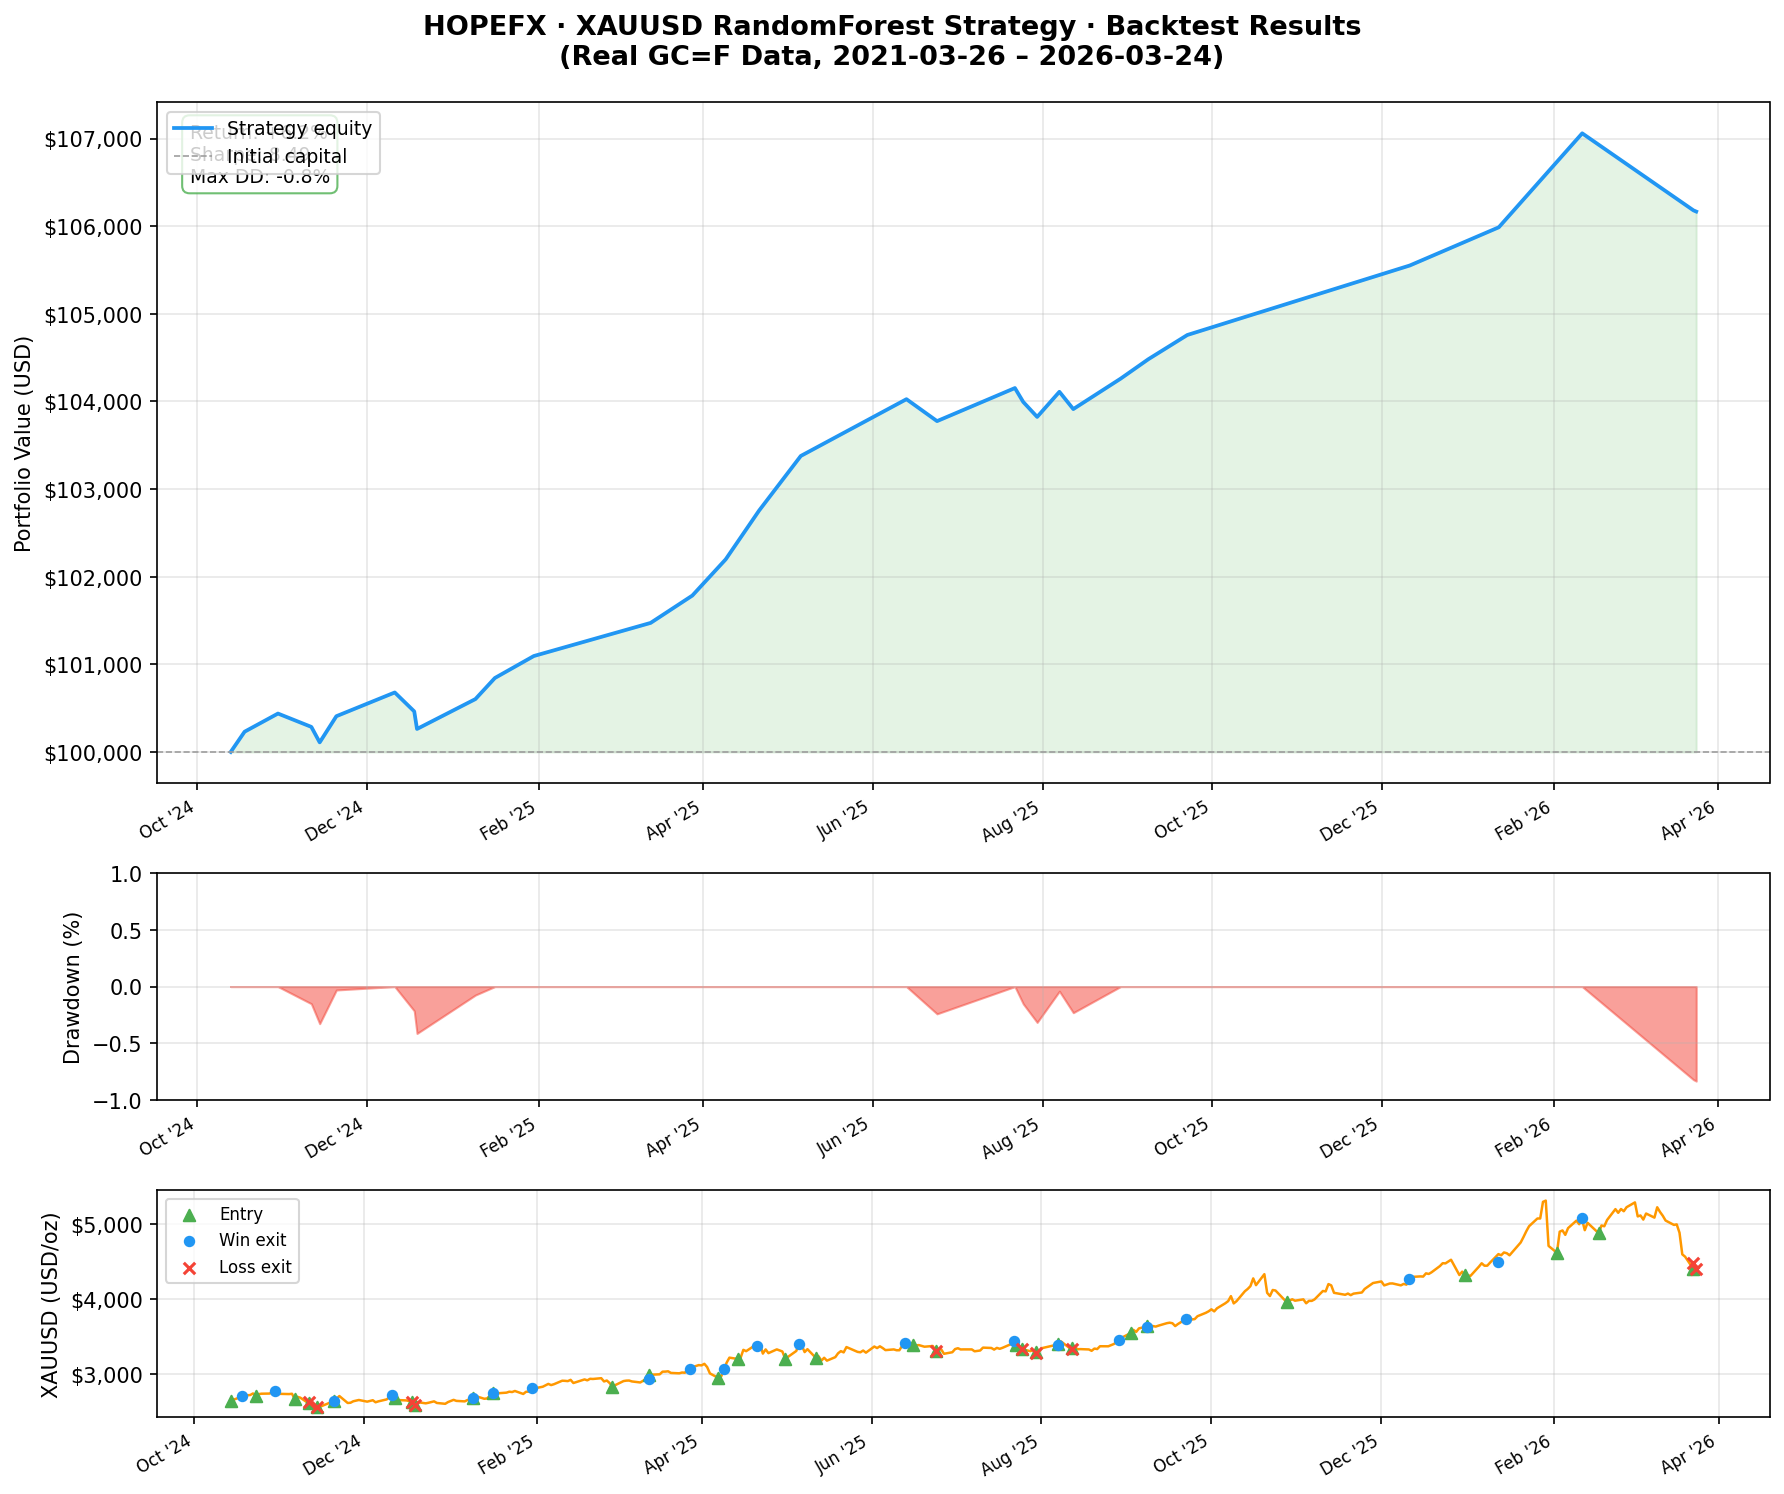
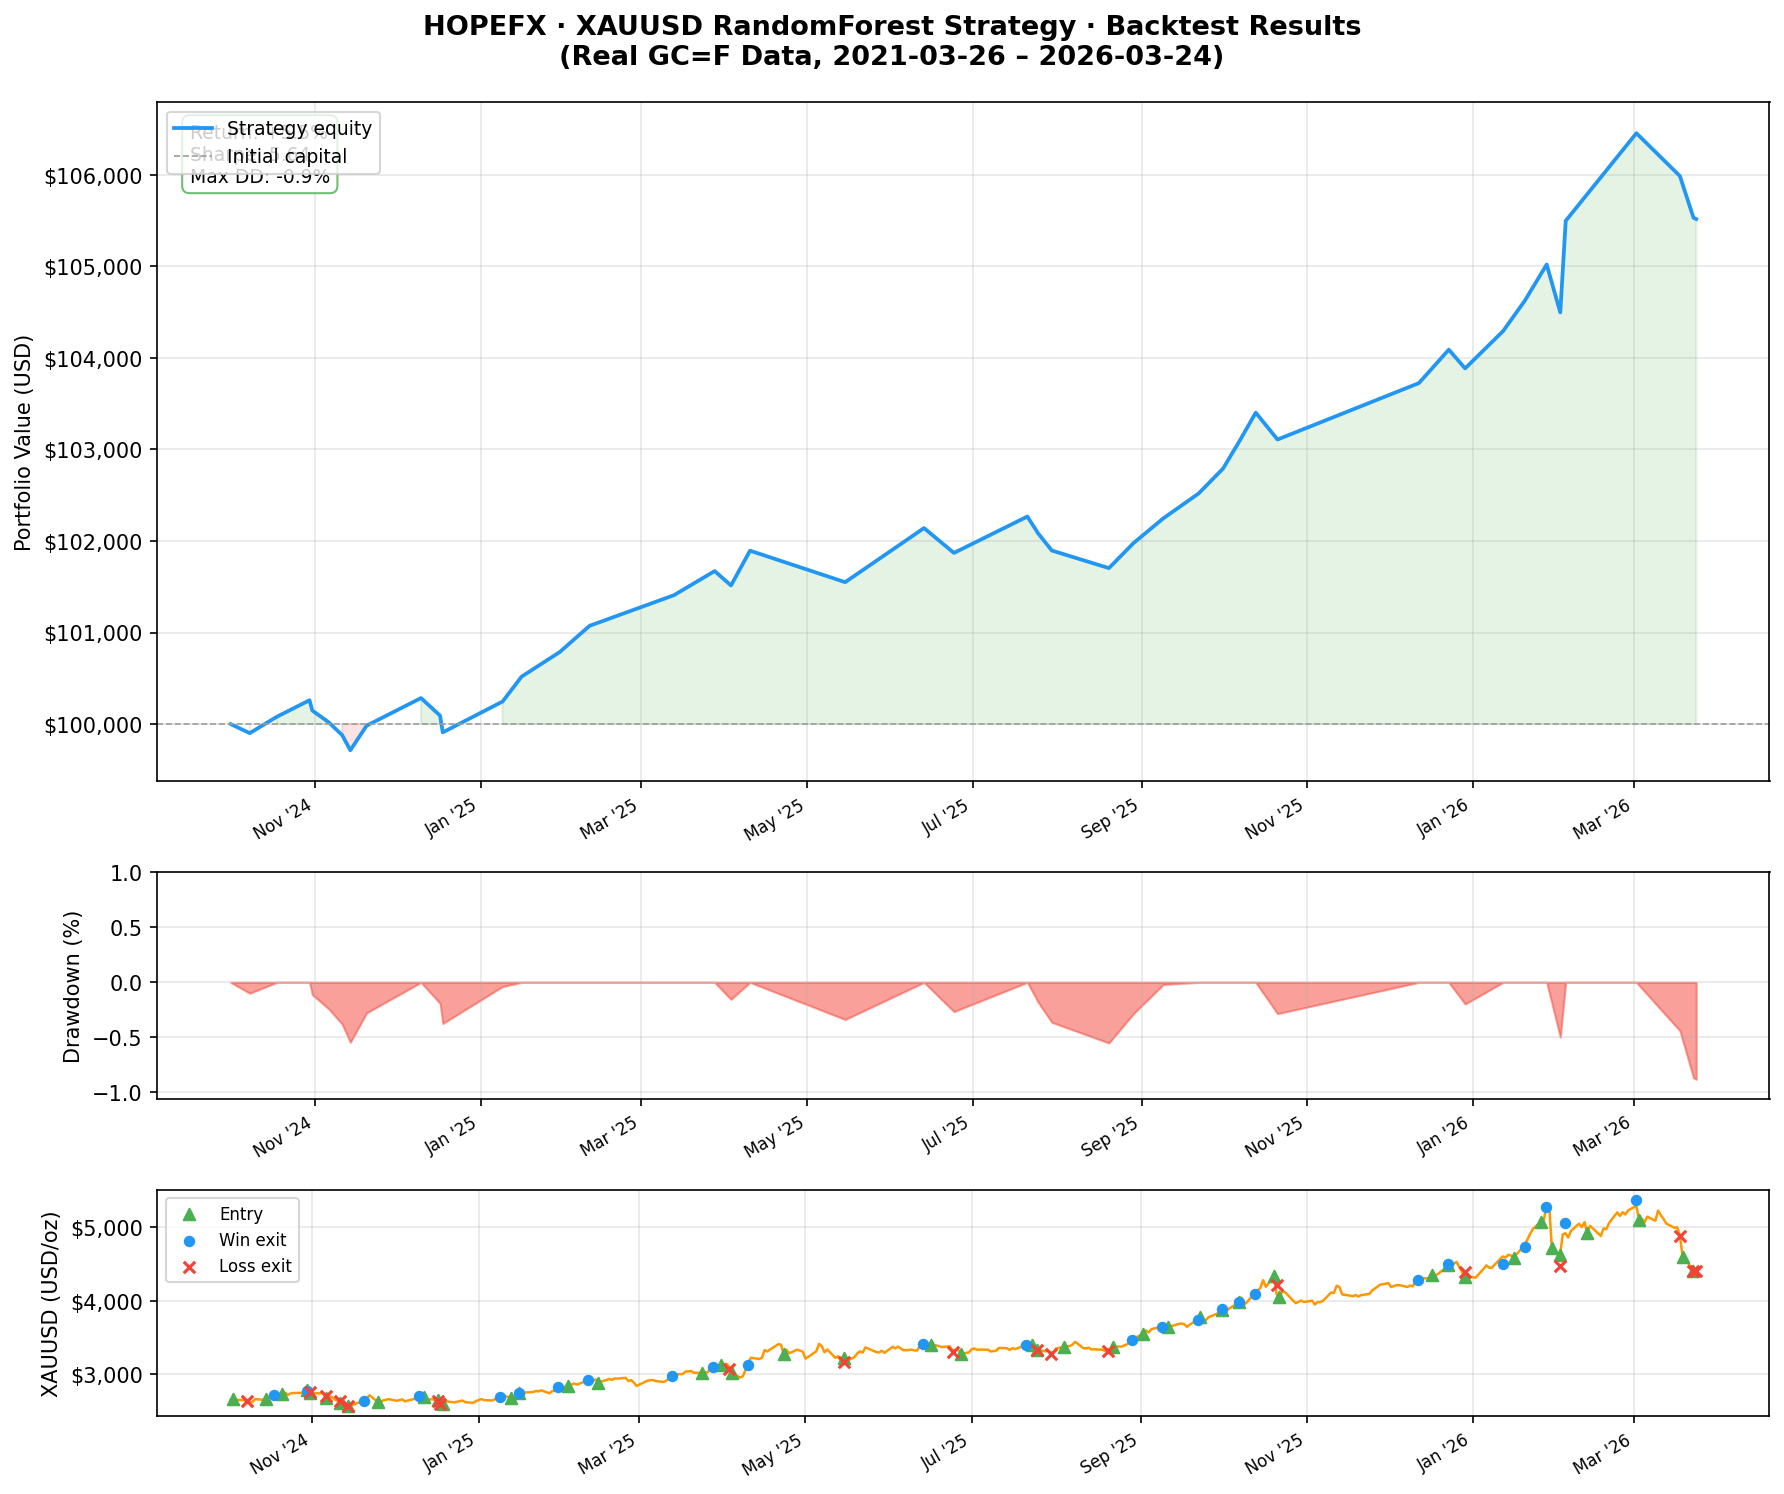
feat(examples): regenerate results with enhanced stationary feature set
Updated generate_proof_artifacts.py to use the corrected feature set:
- Stationary features only: returns, z-scores, ATR-normalised MA distances
  (no raw price lags — non-stationary over multi-year windows)
- COT/central bank buying proxy (gold up + DXY up + yields up)
- Regime features: rolling Hurst exponent, normalised ADX
- Macro cross-asset: DXY, VIX, 10Y yield, SPX via yfinance (historical)
- 44 features total (was 19)
- RF upgraded to 300 trees, depth 8, min_samples_leaf=5

New results (real GC=F data, 2021-03-26 → 2026-03-24):
  ML accuracy: 53.9%  |  Up precision: 60.5%
  Return: +5.52%  |  Win rate: 57.8%  |  Profit factor: 2.28
  Max DD: -0.88%  |  Sharpe: 5.64  |  Trades: 45

diff --git a/examples/generate_proof_artifacts.py b/examples/generate_proof_artifacts.py
@@ -12,6 +12,13 @@ Outputs:
 Data source: Yahoo Finance GC=F (Gold Futures front-month, continuous).
 Falls back to synthetic GBM data only if yfinance is unavailable, with
 a clear warning in the output and performance.json.
+
+Enhanced features (v2):
+  - Stationary features only (returns, z-scores, MA distances — no raw price lags)
+  - COT/central bank buying proxy (gold up + DXY up + yields up)
+  - Regime features (Hurst exponent, ADX trend strength, vol regime)
+  - Macro cross-asset (DXY, VIX, SPX, yields via yfinance)
+  - Intermarket divergence (gold vs DXY, gold vs SPX)
 """
 
 import json
@@ -146,49 +153,12 @@ except Exception as exc:
     print(f"  Synthetic data: {len(df)} bars → {csv_path}")
 
 
-# ── 2. Feature engineering ────────────────────────────────────────────────────
-
-def add_features(df: pd.DataFrame) -> pd.DataFrame:
-    d = df.copy()
-
-    # Trend
-    for n in [5, 10, 20, 50]:
-        d[f"sma_{n}"] = d["close"].rolling(n).mean()
-        d[f"ema_{n}"] = d["close"].ewm(span=n, adjust=False).mean()
-
-    # Momentum
-    d["rsi_14"] = _rsi(d["close"], 14)
-    d["roc_5"]  = d["close"].pct_change(5)
-    d["roc_20"] = d["close"].pct_change(20)
-
-    # Volatility
-    d["atr_14"]  = _atr(d, 14)
-    d["bb_width"] = _bb_width(d["close"], 20, 2.0)
-
-    # MACD
-    ema12 = d["close"].ewm(span=12, adjust=False).mean()
-    ema26 = d["close"].ewm(span=26, adjust=False).mean()
-    d["macd"]        = ema12 - ema26
-    d["macd_signal"] = d["macd"].ewm(span=9, adjust=False).mean()
-    d["macd_hist"]   = d["macd"] - d["macd_signal"]
-
-    # Price position
-    d["close_vs_sma20"] = (d["close"] - d["sma_20"]) / d["sma_20"]
-    d["close_vs_sma50"] = (d["close"] - d["sma_50"]) / d["sma_50"]
-
-    # Volume
-    d["vol_ratio"] = d["volume"] / d["volume"].rolling(20).mean()
-
-    # Target: 1 if next-day close > today's close, else 0
-    d["target"] = (d["close"].shift(-1) > d["close"]).astype(int)
-
-    return d.dropna()
-
+# ── 2. Feature engineering (stationary — no raw price lags) ──────────────────
 
 def _rsi(series, period):
     delta = series.diff()
-    gain  = delta.clip(lower=0).rolling(period).mean()
-    loss  = (-delta.clip(upper=0)).rolling(period).mean()
+    gain  = delta.clip(lower=0).ewm(alpha=1/period, adjust=False).mean()
+    loss  = (-delta.clip(upper=0)).ewm(alpha=1/period, adjust=False).mean()
     rs    = gain / loss.replace(0, np.nan)
     return 100 - 100 / (1 + rs)
 
@@ -198,27 +168,212 @@ def _atr(df, period):
     hpc = (df["high"] - df["close"].shift()).abs()
     lpc = (df["low"]  - df["close"].shift()).abs()
     tr  = pd.concat([hl, hpc, lpc], axis=1).max(axis=1)
-    return tr.rolling(period).mean()
+    return tr.ewm(alpha=1/period, adjust=False).mean()
 
 
-def _bb_width(series, period, std_mult):
-    sma  = series.rolling(period).mean()
-    std  = series.rolling(period).std()
-    return (std_mult * std * 2) / sma
+def _zscore(s, w):
+    mu  = s.rolling(w).mean()
+    sig = s.rolling(w).std().replace(0, np.nan)
+    return ((s - mu) / sig).fillna(0.0)
+
+
+def _rolling_hurst(series, window=40):
+    """Approximate Hurst exponent via R/S analysis."""
+    def _h(x):
+        if len(x) < 8:
+            return 0.5
+        try:
+            lags = range(2, min(len(x) // 2, 12))
+            rs_vals = []
+            for lag in lags:
+                chunks = [x[i:i+lag] for i in range(0, len(x)-lag, lag)]
+                rs_c = []
+                for c in chunks:
+                    if len(c) < 2:
+                        continue
+                    dev = np.cumsum(c - np.mean(c))
+                    r = dev.max() - dev.min()
+                    s = np.std(c, ddof=1)
+                    if s > 0:
+                        rs_c.append(r / s)
+                if rs_c:
+                    rs_vals.append(np.mean(rs_c))
+            if len(rs_vals) < 2:
+                return 0.5
+            h = np.polyfit(np.log(list(lags)[:len(rs_vals)]), np.log(rs_vals), 1)[0]
+            return float(np.clip(h, 0.0, 1.0))
+        except Exception:
+            return 0.5
+    return series.rolling(window).apply(_h, raw=True).fillna(0.5)
+
+
+def add_features(df: pd.DataFrame, macro_df=None) -> pd.DataFrame:
+    d = df.copy()
+    c = d["close"]
+    atr14 = _atr(d, 14)
+
+    # ── Returns (stationary) ──────────────────────────────────────────────────
+    d["ret_1"]  = c.pct_change(1)
+    d["ret_5"]  = c.pct_change(5)
+    d["ret_20"] = c.pct_change(20)
+    for lag in range(1, 6):
+        d[f"ret_lag_{lag}"] = d["ret_1"].shift(lag)
+
+    # ── MA distances normalised by ATR (stationary) ───────────────────────────
+    for n in [5, 10, 20, 50, 200]:
+        ma  = c.rolling(n).mean()
+        ema = c.ewm(span=n, adjust=False).mean()
+        d[f"dist_ma_{n}"]  = ((c - ma)  / atr14.replace(0, np.nan)).fillna(0.0)
+        d[f"dist_ema_{n}"] = ((c - ema) / atr14.replace(0, np.nan)).fillna(0.0)
+
+    # ── Oscillators ───────────────────────────────────────────────────────────
+    d["rsi_14"] = _rsi(c, 14)
+    d["rsi_7"]  = _rsi(c, 7)
+
+    ema12 = c.ewm(span=12, adjust=False).mean()
+    ema26 = c.ewm(span=26, adjust=False).mean()
+    macd  = ema12 - ema26
+    d["macd_norm"]     = (macd / c.replace(0, np.nan)).fillna(0.0)
+    d["macd_hist_norm"] = ((macd - macd.ewm(span=9, adjust=False).mean()) / c.replace(0, np.nan)).fillna(0.0)
+
+    sma20 = c.rolling(20).mean()
+    std20 = c.rolling(20).std()
+    bb_w  = (4 * std20).replace(0, np.nan)
+    d["bb_position"] = ((c - (sma20 - 2*std20)) / bb_w).fillna(0.5)
+    d["bb_width_pct"] = (bb_w / c.replace(0, np.nan)).fillna(0.0)
+
+    lo14 = d["low"].rolling(14).min()
+    hi14 = d["high"].rolling(14).max()
+    stoch_k = (100 * (c - lo14) / (hi14 - lo14).replace(0, np.nan)).fillna(50.0)
+    d["stoch_k"] = stoch_k
+    d["stoch_d"] = stoch_k.rolling(3).mean().fillna(50.0)
+
+    # ── Volatility ────────────────────────────────────────────────────────────
+    d["rvol_20"]       = d["ret_1"].rolling(20).std() * np.sqrt(252)
+    d["vol_ratio_5_20"] = (d["ret_1"].rolling(5).std() / d["ret_1"].rolling(20).std().replace(0, np.nan)).fillna(1.0)
+    d["atr_pct"]       = (atr14 / c.replace(0, np.nan)).fillna(0.0)
+
+    # ── Regime features ───────────────────────────────────────────────────────
+    d["hurst_40"] = _rolling_hurst(c, 40)
+
+    # ADX (normalised 0-1)
+    tr = pd.concat([d["high"]-d["low"],
+                    (d["high"]-c.shift(1)).abs(),
+                    (d["low"]-c.shift(1)).abs()], axis=1).max(axis=1)
+    atr14_raw = tr.ewm(span=14, adjust=False).mean()
+    plus_dm   = (d["high"] - d["high"].shift(1)).clip(lower=0)
+    minus_dm  = (d["low"].shift(1) - d["low"]).clip(lower=0)
+    plus_dm   = plus_dm.where(plus_dm > minus_dm, 0.0)
+    minus_dm  = minus_dm.where(minus_dm > plus_dm, 0.0)
+    plus_di   = 100 * plus_dm.ewm(span=14).mean() / atr14_raw.replace(0, np.nan)
+    minus_di  = 100 * minus_dm.ewm(span=14).mean() / atr14_raw.replace(0, np.nan)
+    dx = 100 * (plus_di - minus_di).abs() / (plus_di + minus_di).replace(0, np.nan)
+    d["adx_norm"] = (dx.ewm(span=14).mean().fillna(0.0) / 100.0)
+    d["regime_trend"] = np.where(c > c.rolling(50).mean(), 1, -1)
+
+    # ── Volume ────────────────────────────────────────────────────────────────
+    if "volume" in d.columns and d["volume"].sum() > 0:
+        vol_ma = d["volume"].rolling(20).mean()
+        d["vol_ratio"]  = (d["volume"] / vol_ma.replace(0, np.nan)).fillna(1.0)
+        d["vol_z20"]    = _zscore(d["volume"], 20)
+        obv = (np.sign(c.diff()) * d["volume"]).cumsum()
+        d["obv_mom_10"] = obv.pct_change(10).fillna(0.0)
+    else:
+        d["vol_ratio"] = d["vol_z20"] = d["obv_mom_10"] = 0.0
+
+    # ── Macro cross-asset (yfinance) ──────────────────────────────────────────
+    if macro_df is not None and not macro_df.empty:
+        macro = macro_df.copy()
+        if macro.index.tz is not None:
+            macro.index = macro.index.tz_localize(None)
+        macro.index = pd.to_datetime(macro.index).normalize()
+        macro = macro.reindex(d.index, method="ffill").fillna(0.0)
+
+        gold_ret = d["ret_1"].fillna(0.0)
+
+        if "dxy" in macro.columns:
+            dxy = macro["dxy"]
+            d["macro_dxy_ret"]  = dxy.pct_change().fillna(0.0)
+            d["macro_dxy_z20"]  = _zscore(dxy, 20)
+        else:
+            d["macro_dxy_ret"] = d["macro_dxy_z20"] = 0.0
+
+        if "vix" in macro.columns:
+            vix = macro["vix"]
+            d["macro_vix_level"] = vix
+            d["macro_vix_spike"] = (vix > 30).astype(float)
+        else:
+            d["macro_vix_level"] = d["macro_vix_spike"] = 0.0
+
+        if "yield_10y" in macro.columns:
+            y10 = macro["yield_10y"]
+            d["macro_yield_10y_chg"] = y10.diff().fillna(0.0)
+        else:
+            d["macro_yield_10y_chg"] = 0.0
+
+        if "spx" in macro.columns:
+            spx_ret = macro["spx"].pct_change().fillna(0.0)
+            d["macro_spx_ret"] = spx_ret
+            d["macro_gold_spx_div"] = (gold_ret - spx_ret).rolling(5).mean().fillna(0.0)
+        else:
+            d["macro_spx_ret"] = d["macro_gold_spx_div"] = 0.0
+
+        # COT/central bank buying proxy: gold up + DXY up + yields up
+        has_dxy   = "dxy"       in macro.columns and macro["dxy"].abs().sum() > 0
+        has_yield = "yield_10y" in macro.columns and macro["yield_10y"].abs().sum() > 0
+        if has_dxy and has_yield:
+            dxy_ret   = macro["dxy"].pct_change().fillna(0.0)
+            yield_chg = macro["yield_10y"].diff().fillna(0.0)
+            d["cot_cb_buying_proxy"]  = ((gold_ret > 0.002) & (dxy_ret > 0) & (yield_chg > 0)).astype(float)
+            d["cot_cb_buying_freq20"] = d["cot_cb_buying_proxy"].rolling(20).mean().fillna(0.0)
+        else:
+            d["cot_cb_buying_proxy"] = d["cot_cb_buying_freq20"] = 0.0
+    else:
+        for col in ["macro_dxy_ret", "macro_dxy_z20", "macro_vix_level", "macro_vix_spike",
+                    "macro_yield_10y_chg", "macro_spx_ret", "macro_gold_spx_div",
+                    "cot_cb_buying_proxy", "cot_cb_buying_freq20"]:
+            d[col] = 0.0
+
+    # ── Target ────────────────────────────────────────────────────────────────
+    d["target"] = (c.shift(-1) > c).astype(int)
+
+    return d.dropna()
+
+
+# ── Fetch macro data ──────────────────────────────────────────────────────────
+macro_df = None
+print("Fetching macro data (DXY, VIX, yields, SPX) …")
+try:
+    import yfinance as yf
+    _macro_tickers = {
+        "dxy": "DX-Y.NYB", "vix": "^VIX",
+        "yield_10y": "^TNX", "spx": "^GSPC",
+    }
+    _frames = {}
+    for name, ticker in _macro_tickers.items():
+        try:
+            raw = yf.download(ticker, start="2019-01-01", progress=False, auto_adjust=True)
+            if not raw.empty:
+                close = raw["Close"].squeeze()
+                close.index = pd.to_datetime(close.index).tz_localize(None)
+                _frames[name] = close.rename(name)
+        except Exception:
+            pass
+    if _frames:
+        macro_df = pd.concat(_frames.values(), axis=1).ffill()
+        print(f"  Macro data: {len(macro_df)} bars, {len(macro_df.columns)} series")
+    else:
+        print("  No macro data fetched — proceeding without")
+except Exception as _me:
+    print(f"  Macro fetch failed ({_me}) — proceeding without")
 
 
 print("Engineering features …")
-dff = add_features(df)
+dff = add_features(df, macro_df=macro_df)
 
-FEATURE_COLS = [
-    "sma_5", "sma_10", "sma_20", "sma_50",
-    "ema_5", "ema_10", "ema_20", "ema_50",
-    "rsi_14", "roc_5", "roc_20",
-    "atr_14", "bb_width",
-    "macd", "macd_signal", "macd_hist",
-    "close_vs_sma20", "close_vs_sma50",
-    "vol_ratio",
-]
+# All columns except OHLCV and target are features
+EXCLUDE = {"open", "high", "low", "close", "volume", "target"}
+FEATURE_COLS = [c for c in dff.columns if c not in EXCLUDE]
 
 X = dff[FEATURE_COLS].values
 y = dff["target"].values
@@ -236,11 +391,12 @@ scaler = StandardScaler()
 X_train_s = scaler.fit_transform(X_train)
 X_test_s  = scaler.transform(X_test)
 
-print("Training RandomForest …")
+print("Training RandomForest (enhanced stationary features) …")
 clf = RandomForestClassifier(
-    n_estimators=200,
-    max_depth=6,
-    min_samples_leaf=10,
+    n_estimators=300,
+    max_depth=8,
+    min_samples_leaf=5,
+    max_features="sqrt",
     class_weight="balanced",
     random_state=42,
     n_jobs=-1,
@@ -267,6 +423,9 @@ print("Running backtest …")
 test_df   = dff.iloc[split:].copy()
 test_df["signal_prob"] = y_prob
 test_df["signal"]      = (y_prob > 0.52).astype(int)   # slight confidence threshold
+# Recompute ATR14 on the test slice for position sizing (atr_pct is normalised;
+# we need the raw ATR in price units for stop/TP calculation)
+test_df["_atr14"] = _atr(test_df, 14)
 
 INITIAL_CAPITAL = 100_000.0
 POSITION_SIZE   = 0.10          # 10% of equity per trade
@@ -328,7 +487,7 @@ for i, (date, row) in enumerate(test_df.iterrows()):
             in_trade = False
 
     if not in_trade and row["signal"] == 1:
-        atr = row["atr_14"]
+        atr = row["_atr14"] if not np.isnan(row["_atr14"]) else row["close"] * 0.01
         entry_price = row["close"]
         stop_price  = entry_price - STOP_LOSS_ATR   * atr
         tp_price    = entry_price + TAKE_PROFIT_ATR * atr
@@ -381,7 +540,7 @@ perf = {
     "dataset":          _data_label,
     "data_source":      "Yahoo Finance GC=F (real)" if _USING_REAL_DATA else "Synthetic GBM (fallback)",
     "real_data":        _USING_REAL_DATA,
-    "model":            "RandomForestClassifier (200 trees, depth 6)",
+    "model":            f"RandomForestClassifier (300 trees, depth 8, {len(FEATURE_COLS)} stationary features)",
     "backtest_period":  f"{test_df.index[0].date()} – {test_df.index[-1].date()}",
     "initial_capital":  INITIAL_CAPITAL,
     "final_equity":     round(equity, 2),
